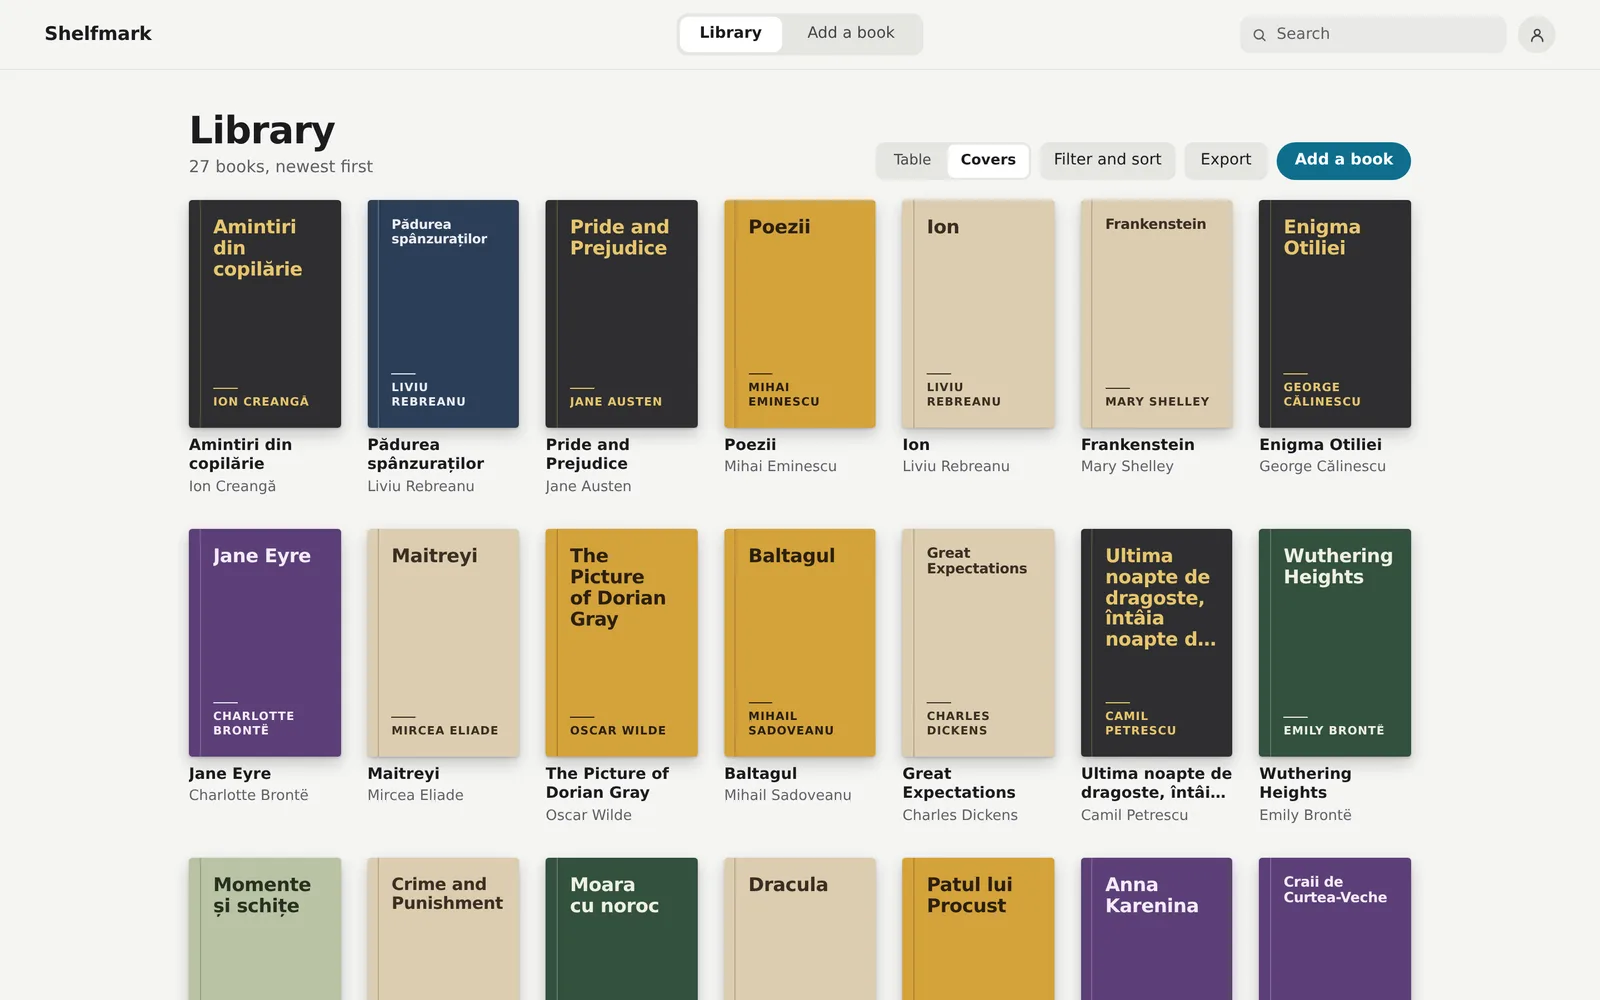
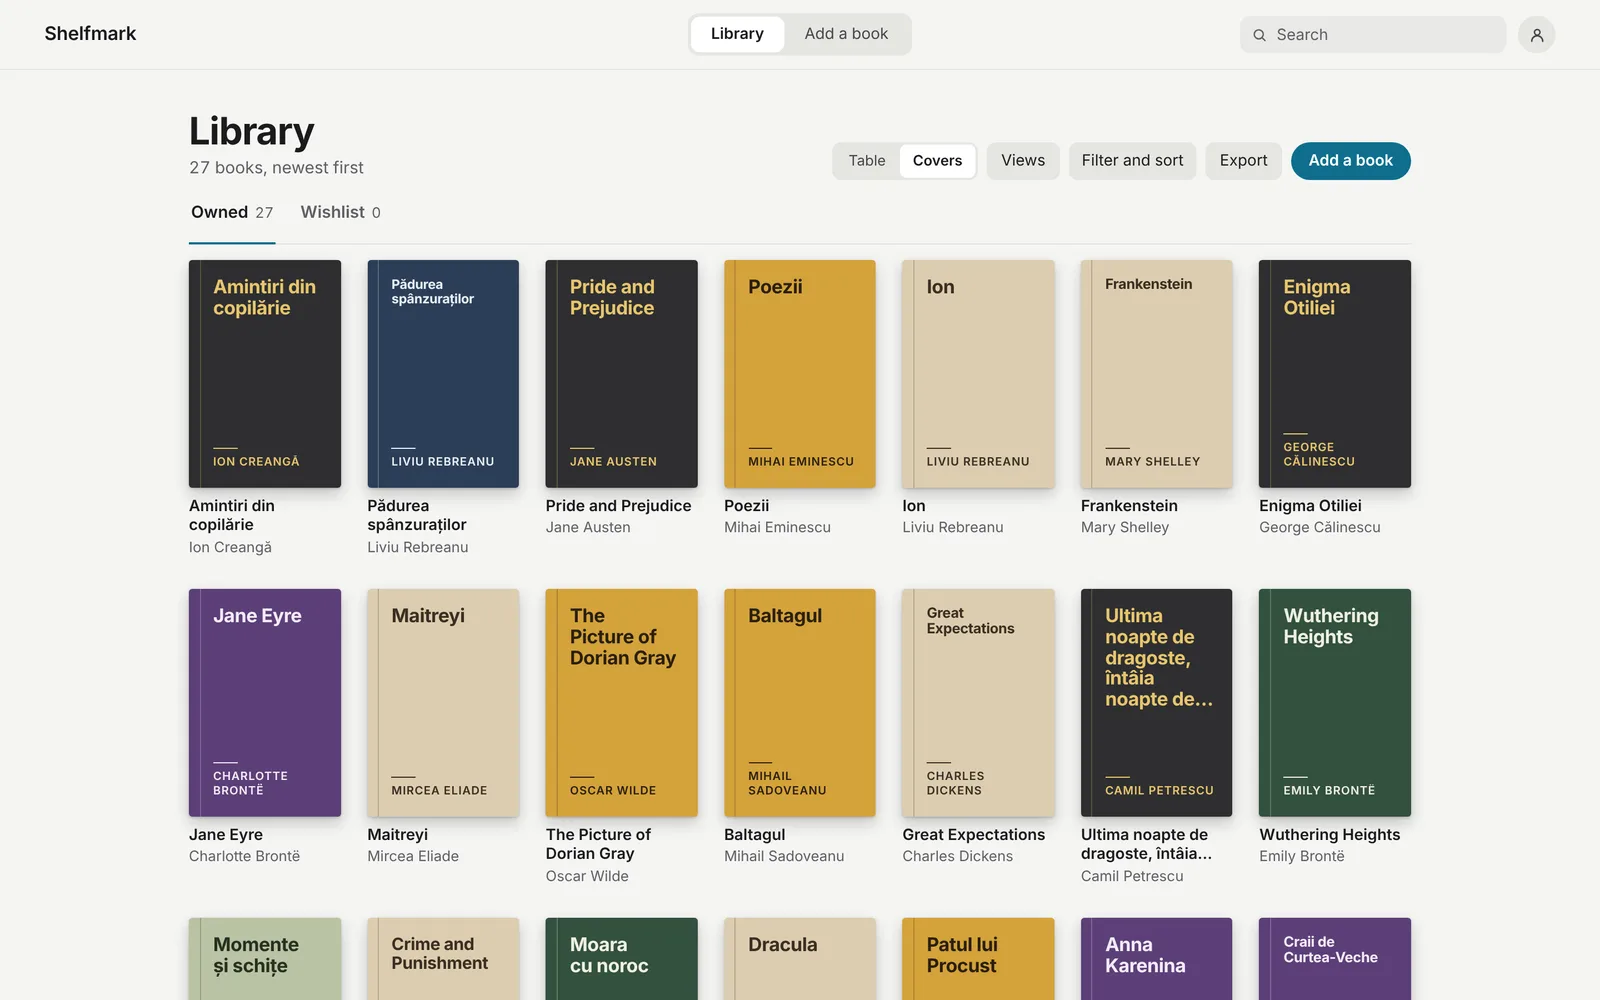
README: deployed, the v1.x features, and the images taken again
The README said version 1 was not deployed and showed the library of
2026-10-16. It now names the 2026-10-24 deploy and what briefs 23-31 added,
and all five images come from the demo seed again: the table with a bulk
edit, the add-a-book screen with the CIP offer. shots.md and corpus/log.md
record how.

Claude-Session: https://claude.ai/code/session_01RnCo6HQvWHip2MdUz77hcT

diff --git a/README.md b/README.md
@@ -6,13 +6,17 @@ A catalog of the paper books on your shelves at home. Scan a barcode with your p
   <img src="docs/images/hero.webp" width="100%" alt="Shelfmark's Library in the Covers view: 27 books, newest first, as a grid of plain coloured covers that show each title and author, such as Amintiri din copilărie by Ion Creangă, Pride and Prejudice by Jane Austen and Enigma Otiliei by George Călinescu">
 </p>
 
-**Status:** Personal project. Version 1 is built and reviewed and runs locally. It is not deployed yet, and the camera scanner and the home-screen install still wait to be tried on a real phone.
+**Status:** Personal project, deployed on 2026-10-24 with everything up to brief 32. The camera scanner and the home-screen install still wait to be tried on a real phone.
 
 ## What it does
 
 - Adds a book from its barcode, through the phone camera, a typed ISBN or a USB barcode scanner on a laptop, and warns you when the book is already on your shelves.
 - Looks the ISBN up in Open Library, then in three Romanian library catalogs (the Romanian Academy Library, BCU Cluj and BCU Timișoara), then in a local copy of the national library's CIP lists of new books, and last in Google Books if you give it a key. You confirm the draft before anything is saved. When the lookup finds nothing, a short form asks for what the cover says.
-- Shows the library as a table or as covers, with a sort on several columns, a filter on each column, and search that ignores diacritics, so `padurea` finds *Pădurea spânzuraților*. The columns you show, hide, reorder and resize are remembered.
+- Shows the library as a table or as covers, with a sort on several columns, a filter on each column, and search that ignores diacritics, so `padurea` finds *Pădurea spânzuraților*. The columns you show, hide, reorder and resize are remembered, and a filter and sort can be saved as a named view.
+- Edits many books at once from the table: move them to a shelf, set their status, add or remove tags, or delete them.
+- Keeps a wishlist beside the books you own, imports a CSV, and shows stats on the library from the account menu.
+- Answers "do I own this?" offline, and queues scans made offline to look them up when the phone is back online.
+- Reads the CIP block from a photo of the copyright page, to fill the form when no catalog knows the ISBN.
 - Keeps your own details on every book: shelf, reading status, rating, tags, notes, format, condition, and where, when and for how much you got it.
 - Exports the current view or every book to Excel or CSV, and downloads a full backup as one SQLite file, covers included.
 - Installs to a phone's home screen. The app shell works offline.
@@ -21,13 +25,13 @@ Libib, BookBuddy and CLZ Books do much of this as hosted apps. Shelfmark keeps t
 
 ## Screenshots
 
-| The table, sorted by year, with the export menu open | A book page, with About the book and About this copy |
+| The table, sorted by year, with three books picked for a bulk edit | A book page, with About the book and About this copy |
 |---|---|
-| ![Library table sorted by year, newest first, with columns for book, publisher, year, shelf, status, rating and language; the Export menu offers Excel or CSV for the 27 books in view, or for every book with every field](docs/images/library-table.webp) | ![Book page for Enigma Otiliei by George Călinescu: a large generated cover with a Change cover button, an About the book card with publisher, year, pages and language, and an About this copy card with shelf, status, format, condition, tags and a note](docs/images/book-page.webp) |
+| ![Library table sorted by year, newest first, with Owned 27 and Wishlist 0 tabs and columns for book, publisher, year, shelf, status and added date; three rows are ticked and the bar above offers Move to shelf, Set status, Add tags, Remove tags and Delete](docs/images/library-table.webp) | ![Book page for Enigma Otiliei by George Călinescu: a large generated cover with a Change cover button, an About the book card with publisher, year, pages and language, and an About this copy card with shelf, status, format, condition, tags and a note](docs/images/book-page.webp) |
 
-| Search ignores diacritics | The lookup found nothing, so you type what the cover says |
+| Search ignores diacritics | The lookup found nothing, so you fill in what the book says |
 |---|---|
-| <img src="docs/images/phone-search.webp" width="300" alt="Phone screen: the search box holds 'padurea', the heading reads 1 of 27 books, and the one result is Pădurea spânzuraților by Liviu Rebreanu"> | <img src="docs/images/phone-add.webp" width="300" alt="Phone screen of Add a book: the Scan, Type ISBN and By hand tabs, an ISBN the lookup found nothing for, and a short form with the title and author filled in and shelf buttons below"> |
+| <img src="docs/images/phone-search.webp" width="300" alt="Phone screen: the search box holds 'padurea', the heading reads 1 of 27 books, and the one result is Pădurea spânzuraților by Liviu Rebreanu"> | <img src="docs/images/phone-add.webp" width="300" alt="Phone screen of Add a book: the Scan, Type ISBN and By hand tabs, an ISBN no source matched, a note on which catalogs were asked, and the offer to read the CIP block from a photo of the copyright page"> |
 
 The screens show a made-up `demo` account with 27 classics. None has a cover file, so the app draws its own covers from the title and author. How each image was made: [docs/images/shots.md](docs/images/shots.md).
 

diff --git a/docs/images/shots.md b/docs/images/shots.md
@@ -12,11 +12,11 @@ publisher's artwork appears.
 
 | File | Shows | How to reach that state | Viewport | Taken |
 |---|---|---|---|---|
-| hero.webp | Library, Covers view, 27 books | Fresh seed, sign in, press Covers | 1440×900 @2x, scaled to 1600 px wide | 2026-10-16 |
-| library-table.webp | Table sorted by year with the Export menu open | Press Table. In Columns, untick Added (every seeded book was added the same day) and tick Rating and Language. Click the Year header, then Export | 1440×900 @2x, scaled to 1600 px | 2026-10-16 |
-| book-page.webp | The book page for Enigma Otiliei | Click Enigma Otiliei in the table | 1440×900 @2x, scaled to 1600 px | 2026-10-16 |
-| phone-search.webp | Search for `padurea` finding Pădurea spânzuraților | `set device "iPhone 14"`, open `/shelfmark/`, type `padurea` in the search box; cropped to the top 1300 px | iPhone 14, 390×844 @3x, crop scaled to 780 px | 2026-10-16 |
-| phone-add.webp | Add a book after a lookup that found nothing | Add a book, Type ISBN, `9789730000009` (a made-up ISBN with a valid check digit), Look up; type Moromeții and Marin Preda into the form, then scroll to the top | iPhone 14, scaled to 780 px | 2026-10-16 |
+| hero.webp | Library, Covers view, 27 books | Fresh seed, sign in, press Covers | 1440×900 @2x, scaled to 1600 px wide | 2026-10-31 |
+| library-table.webp | Table sorted by year, three rows ticked for a bulk edit | Press Table, click the Year header, tick the first three rows; the bulk-edit bar replaces the toolbar | 1440×900 @2x, scaled to 1600 px | 2026-10-31 |
+| book-page.webp | The book page for Enigma Otiliei | Click Enigma Otiliei in the table | 1440×900 @2x, scaled to 1600 px | 2026-10-31 |
+| phone-search.webp | Search for `padurea` finding Pădurea spânzuraților | `set device "iPhone 14"`, open `/shelfmark/`, type `padurea` in the search box; cropped to the top 1300 px | iPhone 14, 390×844 @3x, crop scaled to 780 px | 2026-10-31 |
+| phone-add.webp | Add a book after a lookup that found nothing | Add a book, Type ISBN, `9789730000009` (a made-up ISBN with a valid check digit), Look up. On 2026-10-31 the workspace could reach none of the catalogs, so the note says they didn't answer, and the screen shows the offer to read the CIP block | iPhone 14, scaled to 780 px | 2026-10-31 |
 
 ## Not taken
 
@@ -53,9 +53,9 @@ publisher's artwork appears.
 
 ## Capture method
 
-- Browser: `agent-browser --session shelfmark-readme`, `set viewport 1440 900 2`
-  for desktop, `set device "iPhone 14"` for the phone, then `screenshot` with
-  an absolute path. Sign in through the login page once; the session cookie
+- Browser: on 2026-10-31, Playwright with Chrome, a 1440×900 @2x context for
+  desktop and the `iPhone 14` device for the phone; earlier,
+  `agent-browser --session shelfmark-readme` with the same sizes. Sign in through the login page once; the session cookie
   carries over, and so does the column layout, which the app remembers.
 - Stills: PNG to WebP with
   `ffmpeg -i in.png -vf scale=1600:-1:flags=lanczos -c:v libwebp -quality 82 out.webp`

diff --git a/corpus/log.md b/corpus/log.md
@@ -576,3 +576,7 @@ all three libraries accepted a connection on port 9991: the Academy in 168 ms,
 BCU Cluj in 134 ms, and BCU Timișoara in 5.2 s, against the lookup's 10 s per
 library. The in-app lookup of `9786068044873` and the phone checks stay with the
 owner.
+
+## [2026-10-31] maintenance | README: deployed, the v1.x features, and new images
+
+A README refresh pass with the readme-docs standard. The README still said version 1 was not deployed and described the library as it was on 2026-10-16. It now says briefs 15-32 went live on 2026-10-24 and lists what briefs 23-31 added: saved views, bulk edits from the table, the wishlist, CSV import, stats, the offline "do I own this?" check, queued offline scans, and reading the CIP block from a photo. All five images were taken again from `docs/images/demo-seed.mjs` on a scratch `DATA_DIR`. The table shot now shows three rows ticked and the bulk-edit bar instead of the Export menu, and the add-a-book shot shows the CIP offer; the catalogs were unreachable from the workspace, so its note says they didn't answer. Checked: `npm ci`, the seed, `npm run dev` on port 5176 and the demo seed. `shots.md` records the Playwright capture.
